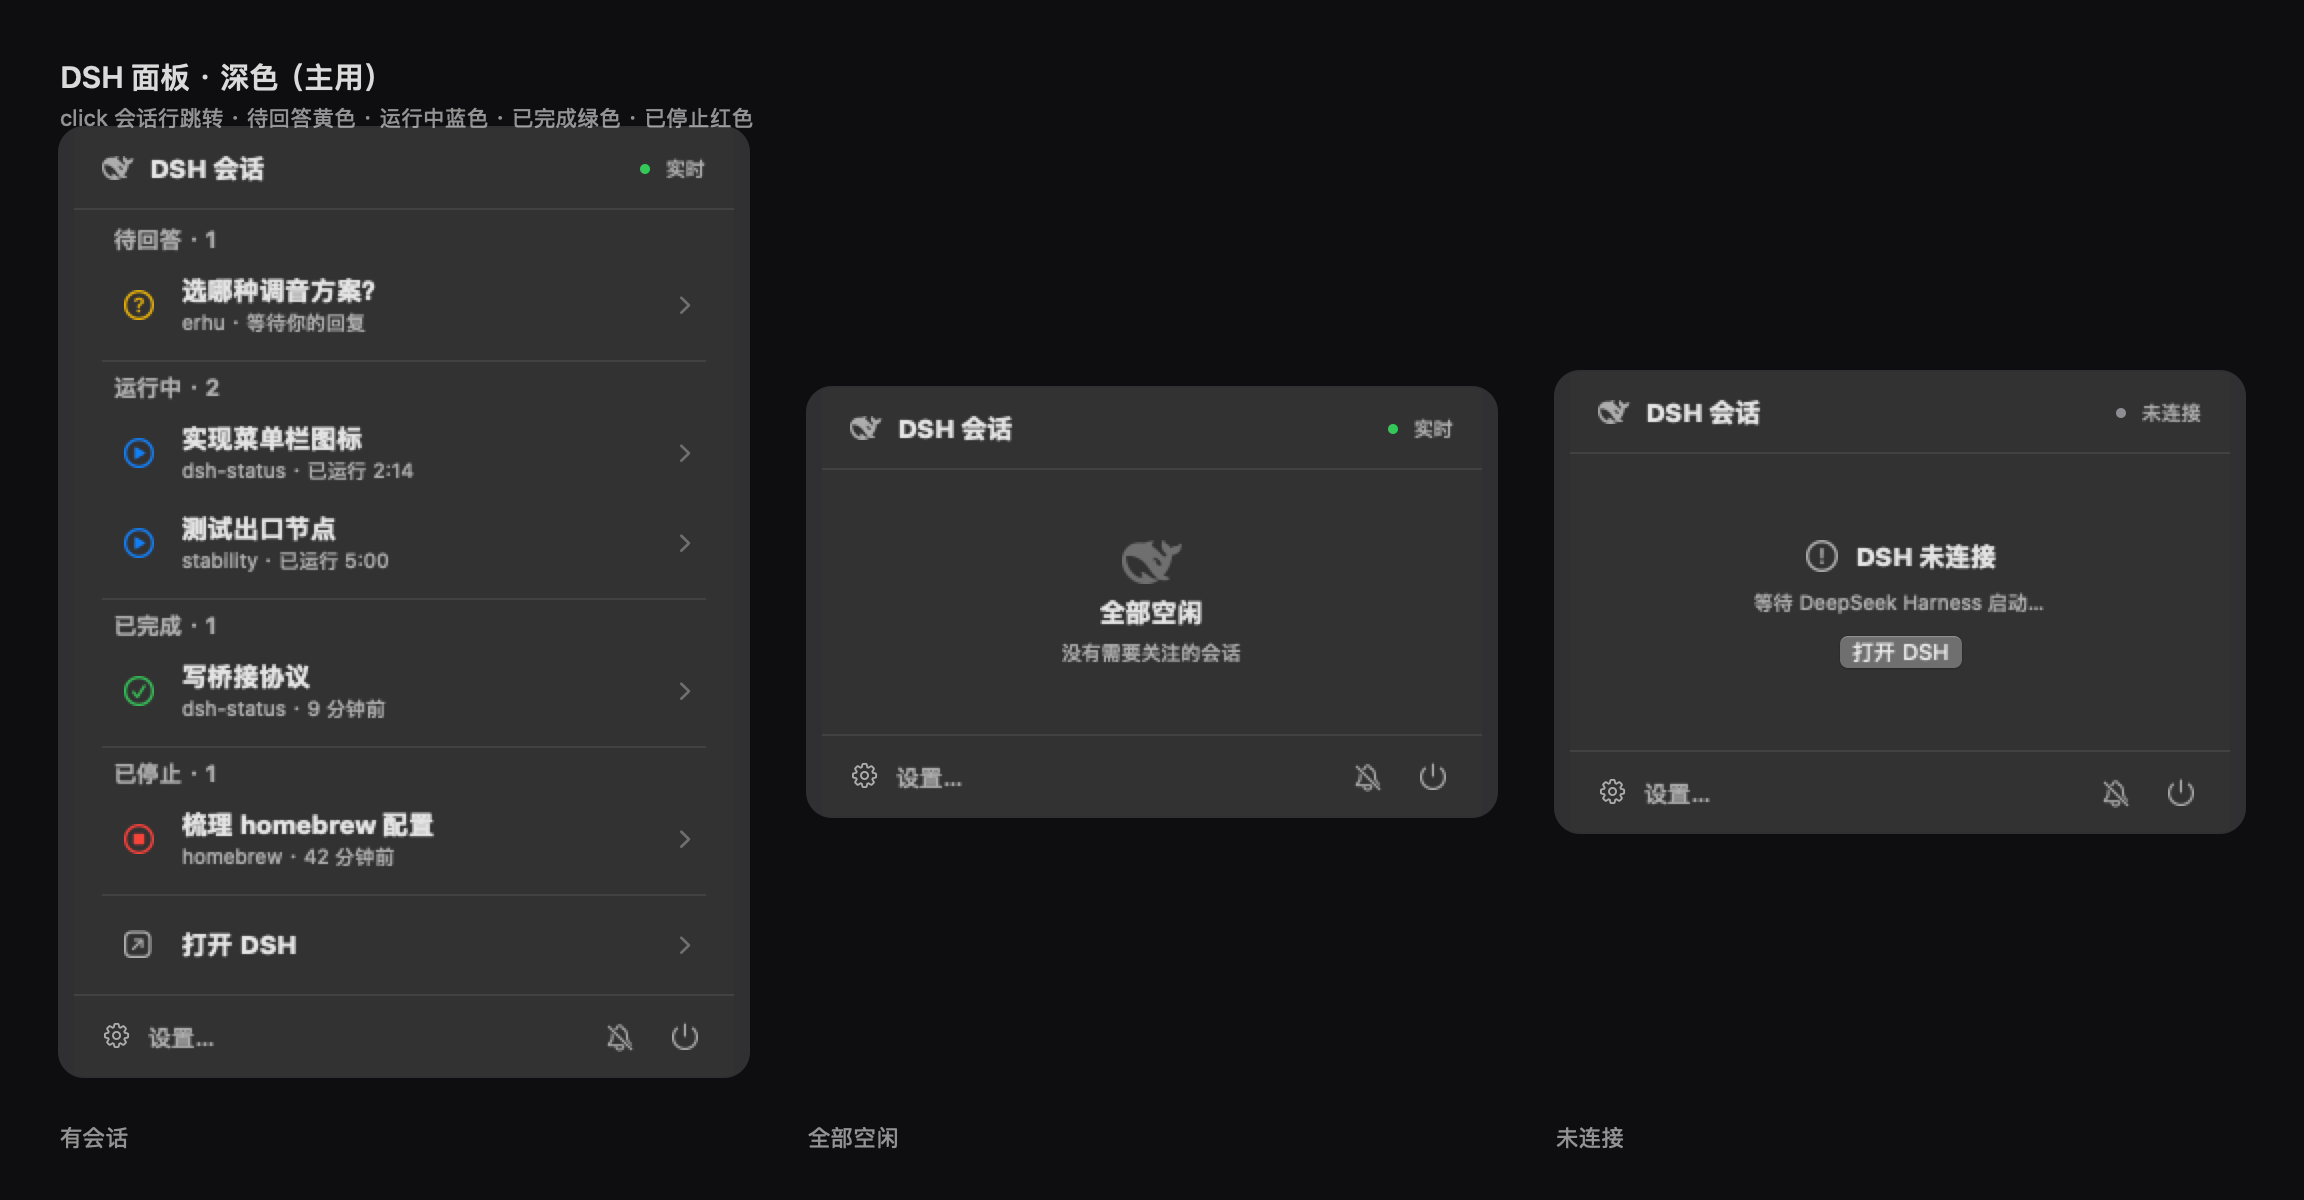
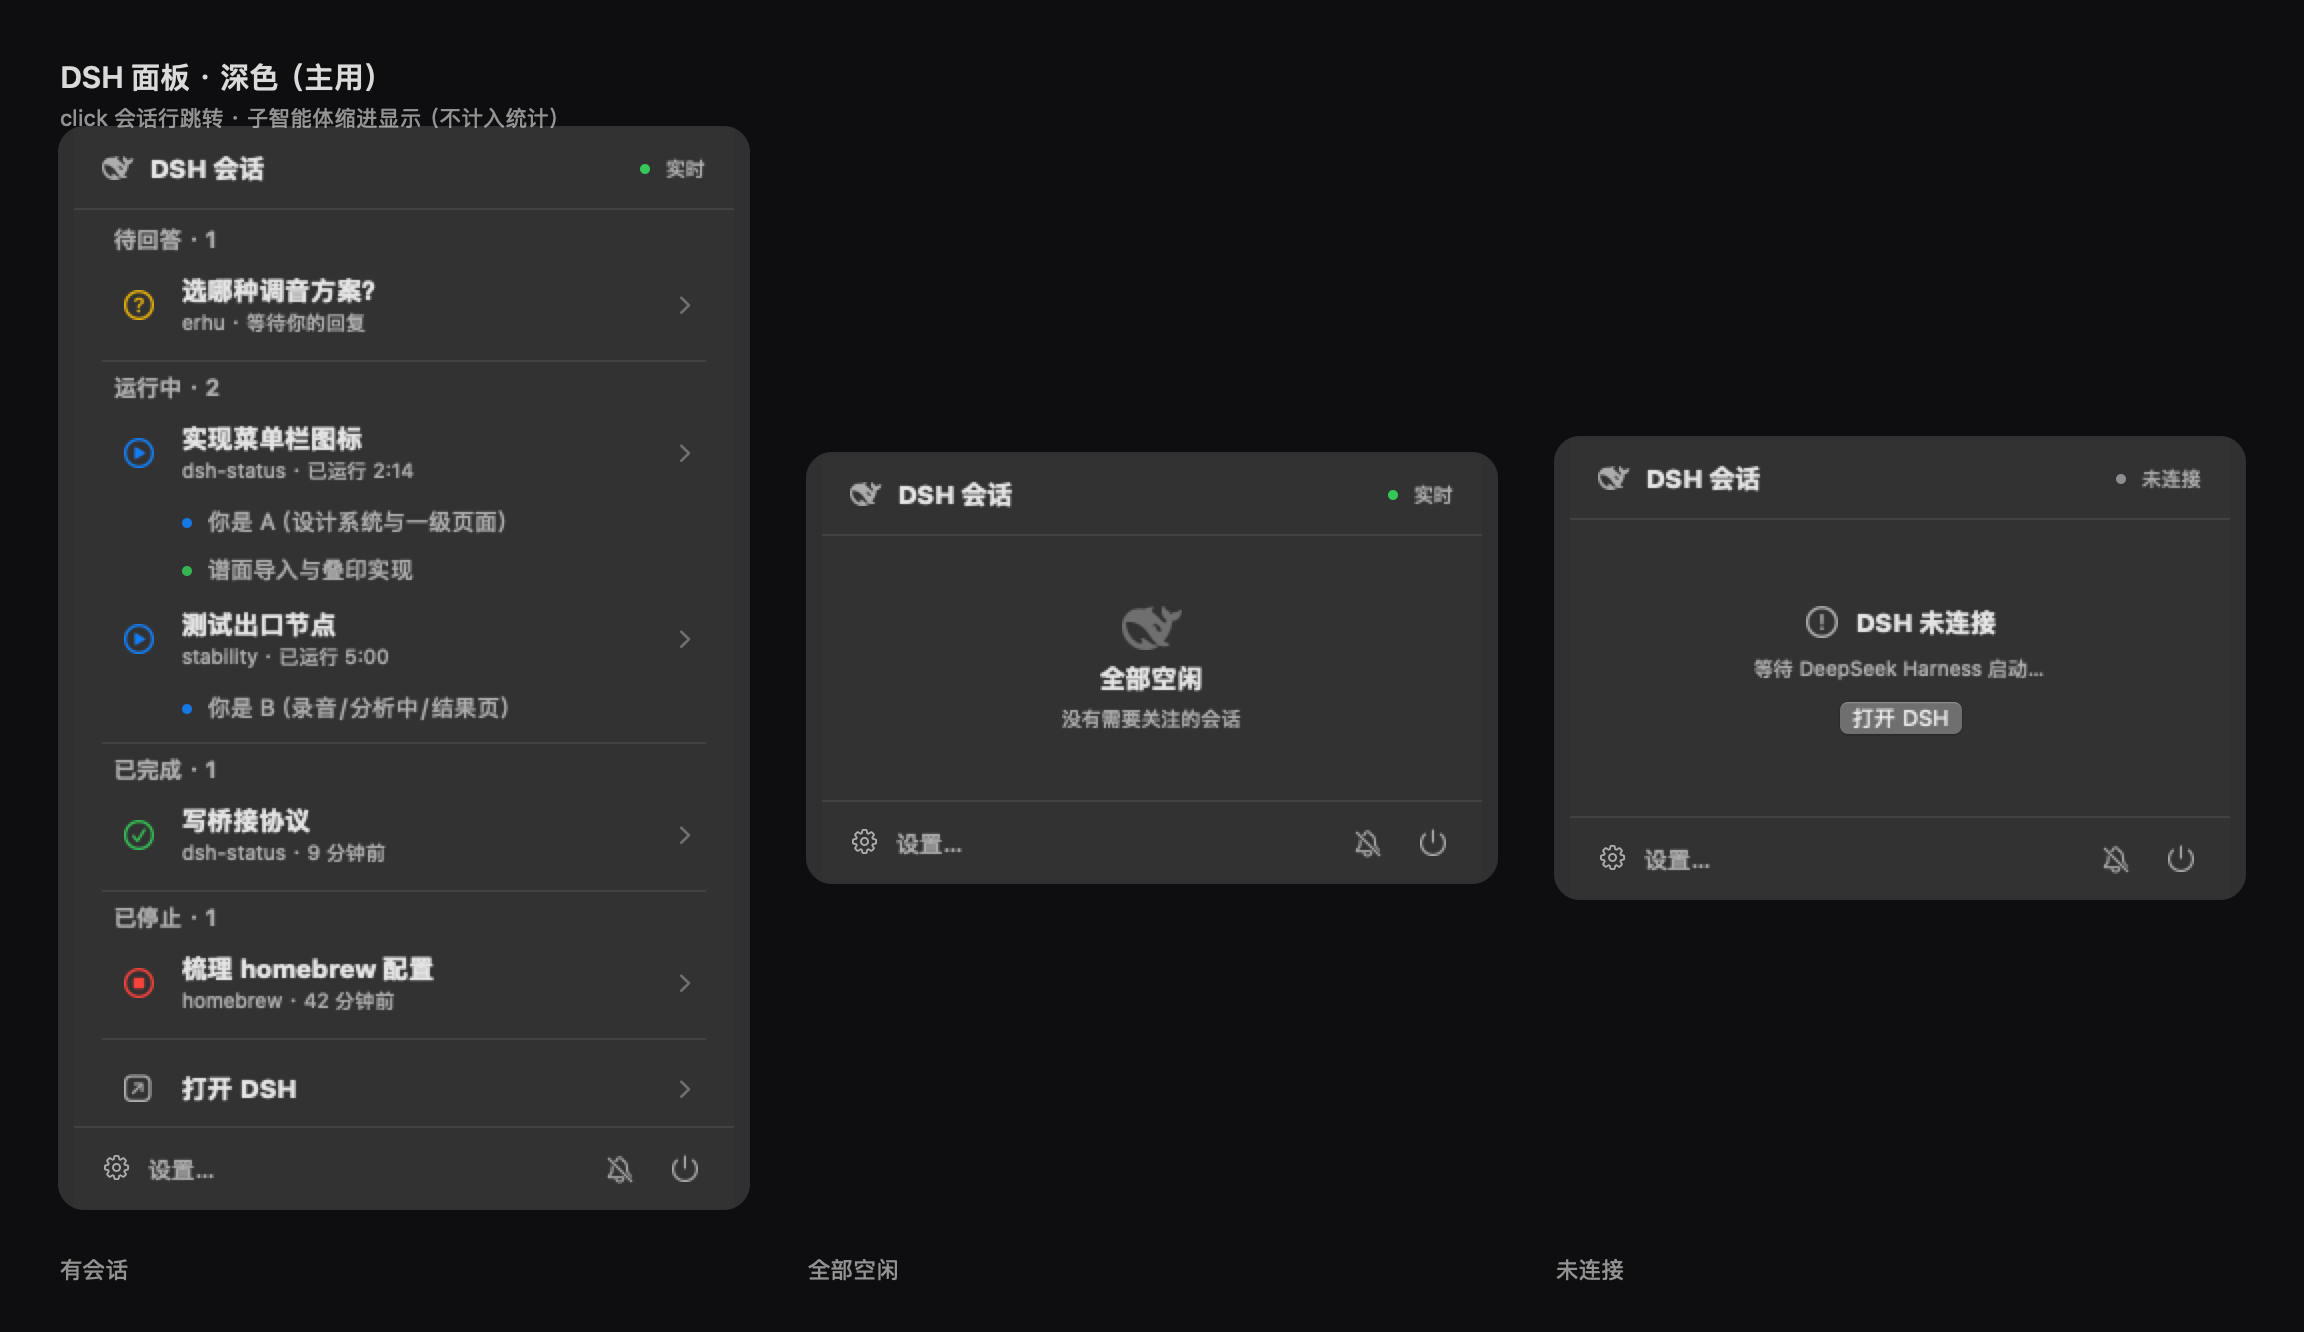
feat(app): 子智能体在面板中缩进展示（不参与统计/图标/通知）

diff --git a/app/Sources/DSHStatusBar/StatusPanelView.swift b/app/Sources/DSHStatusBar/StatusPanelView.swift
@@ -124,6 +124,10 @@ struct StatusPanelView: View {
             ForEach(rows) { row in
                 SessionRowView(row: row,
                                onOpen: { model.onOpenSession?(row.id) })
+                ForEach(model.subagents(for: row.id)) { sub in
+                    SubagentRowView(subagent: sub,
+                                    onOpen: { model.onOpenSession?(row.id) })
+                }
             }
         }
     }
@@ -153,9 +157,12 @@ struct StatusPanelView: View {
 
     private var contentHeight: CGFloat {
         let rows = model.sections.reduce(0) { $0 + $1.rows.count }
+        let subRows = model.sections.reduce(0) { total, section in
+            total + section.rows.reduce(0) { $0 + model.subagents(for: $1.id).count }
+        }
         let sections = model.sections.count
-        let height = CGFloat(rows) * 44 + CGFloat(sections) * 30 + 52
-        return min(max(height, 96), 480)
+        let height = CGFloat(rows) * 44 + CGFloat(subRows) * 22 + CGFloat(sections) * 30 + 52
+        return min(max(height, 96), 520)
     }
 
     // MARK: 空 / 未连接
@@ -245,6 +252,42 @@ struct StatusPanelView: View {
         }
         .buttonStyle(.plain)
         .help(help)
+    }
+}
+
+// MARK: - 子智能体行
+
+private struct SubagentRowView: View {
+    let subagent: SubagentRow
+    let onOpen: () -> Void
+    @State private var hovering = false
+    @Environment(\.colorScheme) private var colorScheme
+
+    var body: some View {
+        Button(action: onOpen) {
+            HStack(spacing: 8) {
+                Circle()
+                    .fill(Theme.statusColor(subagent.statusKind, scheme: colorScheme).opacity(0.85))
+                    .frame(width: 5, height: 5)
+                Text(subagent.displayTitle)
+                    .font(.system(size: 11.5))
+                    .foregroundStyle(.secondary)
+                    .lineLimit(1)
+                    .truncationMode(.tail)
+                Spacer(minLength: 0)
+            }
+            .padding(.leading, 40)
+            .padding(.trailing, 8)
+            .frame(height: 22)
+            .background(
+                RoundedRectangle(cornerRadius: 6, style: .continuous)
+                    .fill(hovering ? Theme.hoverFill(colorScheme) : Color.clear)
+            )
+            .contentShape(Rectangle())
+        }
+        .buttonStyle(.plain)
+        .onHover { hovering = $0 }
+        .help("子智能体 · 点击打开所属会话")
     }
 }
 

diff --git a/app/Sources/DSHStatusBar/AppModel.swift b/app/Sources/DSHStatusBar/AppModel.swift
@@ -65,6 +65,17 @@ final class AppModel: ObservableObject {
 
     var attendingCount: Int { state.counts.attention }
 
+    /// 某个父会话下的子智能体（已按状态过滤，按更新时间倒序）。
+    func subagents(for parentId: String) -> [SubagentRow] {
+        state.subagentRows
+            .filter { $0.parentId == parentId && settings.shows($0.statusKind) }
+            .sorted { ($0.updatedAt ?? 0) > ($1.updatedAt ?? 0) }
+    }
+
+    func hasSubagents(_ parentId: String) -> Bool {
+        !subagents(for: parentId).isEmpty
+    }
+
     func apply(state: BridgeState) {
         let rows = state.sessions
         var next: [String: String] = [:]
@@ -161,7 +172,15 @@ enum DemoState {
             dsh: DSHInfo(pid: 12345, version: "0.2.1-rc.5"),
             client: ClientInfo(connected: true, lastPushAt: Date().timeIntervalSince1970 * 1000),
             counts: Counts(waiting: 1, running: 2, completed: 1, stopped: 1, attention: 3),
-            sessions: rows
+            sessions: rows,
+            subagents: [
+                SubagentRow(id: "sub-1", parentId: "session-dsh", title: "你是 A（设计系统与一级页面）",
+                            status: "running", pending: nil, updatedAt: Date().timeIntervalSince1970 * 1000 - 20_000),
+                SubagentRow(id: "sub-2", parentId: "session-dsh", title: "谱面导入与叠印实现",
+                            status: "completed", pending: nil, updatedAt: Date().timeIntervalSince1970 * 1000 - 120_000),
+                SubagentRow(id: "sub-3", parentId: "session-stability", title: "你是 B（录音/分析中/结果页）",
+                            status: "running", pending: nil, updatedAt: Date().timeIntervalSince1970 * 1000 - 40_000),
+            ]
         )
     }()
 
@@ -171,6 +190,7 @@ enum DemoState {
         dsh: DSHInfo(pid: 12345, version: "0.2.1-rc.5"),
         client: ClientInfo(connected: true, lastPushAt: Date().timeIntervalSince1970 * 1000),
         counts: Counts(waiting: 0, running: 0, completed: 0, stopped: 0, attention: 0),
-        sessions: []
+        sessions: [],
+        subagents: []
     )
 }

diff --git a/app/Sources/DSHStatusBar/Models.swift b/app/Sources/DSHStatusBar/Models.swift
@@ -20,6 +20,10 @@ struct BridgeState: Codable, Equatable {
     let client: ClientInfo?
     let counts: Counts
     let sessions: [SessionRow]
+    /// 子智能体会话：只用于面板展示，不计入 counts / 图标 / 通知。
+    let subagents: [SubagentRow]?
+
+    var subagentRows: [SubagentRow] { subagents ?? [] }
 
     static let empty = BridgeState(
         version: 1,
@@ -27,7 +31,8 @@ struct BridgeState: Codable, Equatable {
         dsh: nil,
         client: nil,
         counts: Counts(waiting: 0, running: 0, completed: 0, stopped: 0, attention: 0),
-        sessions: []
+        sessions: [],
+        subagents: []
     )
 }
 
@@ -116,6 +121,22 @@ struct SessionRow: Codable, Equatable, Identifiable {
         case "question": return "等待回答问题"
         default: return "等待你的回复"
         }
+    }
+}
+
+/// 子智能体会话（挂在父会话下，用于面板展示）。
+struct SubagentRow: Codable, Equatable, Identifiable {
+    let id: String
+    let parentId: String?
+    let title: String?
+    let status: String
+    let pending: PendingInfo?
+    let updatedAt: Double?
+
+    var statusKind: SessionStatus { SessionStatus(rawValue: status) ?? .idle }
+    var displayTitle: String {
+        if let t = title, !t.trimmingCharacters(in: .whitespacesAndNewlines).isEmpty { return t }
+        return "子智能体"
     }
 }
 

diff --git a/app/Sources/DSHStatusBar/PreviewRenderer.swift b/app/Sources/DSHStatusBar/PreviewRenderer.swift
@@ -330,7 +330,7 @@ enum PreviewRenderer {
             rect.fill()
             drawText(title, font: .systemFont(ofSize: 15, weight: .semibold),
                      color: .labelColor, at: NSPoint(x: margin, y: height - margin - 18))
-            drawText("click 会话行跳转 · 待回答黄色 · 运行中蓝色 · 已完成绿色 · 已停止红色",
+            drawText("click 会话行跳转 · 子智能体缩进显示（不计入统计）",
                      font: .systemFont(ofSize: 11), color: secondary,
                      at: NSPoint(x: margin, y: height - margin - 36))
 

diff --git a/docs/protocol.md b/docs/protocol.md
@@ -43,9 +43,25 @@ Host 插件启动时写 `~/.dsh-status/bridge.json`（权限 0600，原子写入
     "stopped": 0,      // 已停止（未读）
     "attention": 2     // waiting + completed + stopped（菜单栏角标数字）
   },
-  "sessions": [ SessionRow, ... ]          // 只含非空闲会话
+  "sessions": [ SessionRow, ... ],         // 只含非空闲的**顶层**会话
+  "subagents": [ SubagentRow, ... ]        // 子智能体会话：仅用于面板展示，不计入 counts
 }
 ```
+
+### SubagentRow
+
+```jsonc
+{
+  "id": "242a87ce-...",
+  "parentId": "session-b99ab867-...",       // 所属顶层会话
+  "title": "你是 A（设计系统与一级页面）",
+  "status": "running",                     // 同 SessionRow.status
+  "pending": null,
+  "updatedAt": 1762324799000
+}
+```
+
+> 子智能体不参与 `counts` / 菜单栏图标 / 通知；面板里缩进显示在父会话下方，点击打开父会话。
 
 ### SessionRow
 

diff --git a/docs/app-design.md b/docs/app-design.md
@@ -73,6 +73,8 @@
   - 会话行：左侧 24pt SF Symbol（`questionmark.circle` / `play.circle` / `checkmark.circle` /
     `stop.circle`，对应状态色），标题 `.headline`、副标题 `.caption` secondary，右侧
     `chevron.right` tertiary；hover 8pt 圆角浅底；点击整行跳转。
+  - **子智能体**：缩进 40pt、11.5pt secondary、前置 5pt 状态色圆点、行高 22；点击打开其父会话；
+    不计入分组计数、图标与通知。
   - 颜色收敛到行首小图标上（Status Trio 做法），不再有彩色圆点/红色底。
 - 尾部「打开 DSH」行（`arrow.up.forward.app` + chevron）。
 - 空状态：鲸鱼 +「全部空闲 / 没有需要关注的会话」。
